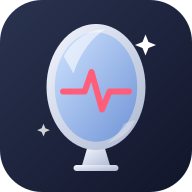
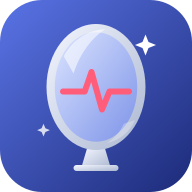
SIM Mirror: 아이콘을 남색으로 변경
Claude-Session: https://claude.ai/code/session_01JdTac9D5vuGWkBkcZARZ1w

diff --git a/sw.js b/sw.js
@@ -1,6 +1,6 @@
 // SIM Tools service worker: 앱 껍데기(HTML·아이콘)만 캐시. 방송 스트림 등 외부 요청은 건드리지 않음.
 // 새 툴 파일을 추가하면 SHELL 목록에 넣고 CACHE 숫자를 올리세요.
-const CACHE = 'simwebtools-shell-v269';
+const CACHE = 'simwebtools-shell-v270';
 const SHELL = ['./brief-sounds/brief_s_chime.wav', './brief-sounds/brief_s_pop.wav', './brief-sounds/brief_s_bell.wav', './brief-sounds/brief_s_harp.wav', './brief-sounds/brief_s_game.wav', './brief-sounds/brief_s_morning.wav', './brief-sounds/brief_s_synth.wav', './', './index.html', './ui-guard.js', './aiphone.js', './tv.html', './note.html', './manifest.webmanifest',
   './icon-192.png', './icon-512.png', './icon-maskable-512.png', './apple-touch-icon.png', './tv-icon-192.png', './note-icon-192.png', './phone.html', './phone-icon-192.png', './aitel.html', './aitel-icon-192.png', './assistant.html', './qr.min.js', './sync.js', './appmenu.js', './assistant-icon-192.png', './calendar.html', './calendar.webmanifest', './calendar-icon-192.png', './calendar-icon-512.png', './calendar-icon-maskable-512.png', './pin-icon.svg', './folder.html', './folder-icon-192.png', './message.html', './message-icon-192.png', './orchestra.html', './orchestra-icon-192.png', './radio.html', './radio-icon-192.png', './calc.html', './calc-icon-192.png', './kbo.html', './kbo-icon-192.png', './kbo-bg.png', './ai-gemini.png', './ai-groq.png', './map.html', './map-icon-192.png', './cat-food.png', './cat-hospital.png', './pad.html', './pad-icon-192.png', './teams.html', './teams-icon-192.png', './scan.html', './scan-icon-192.png', './recipe.html', './recipe-icon-192.png', './brief.html', './brief-icon-192.png', './price.html', './price-icon-192.png', './mirror.html', './mirror-icon-192.png'];
 
